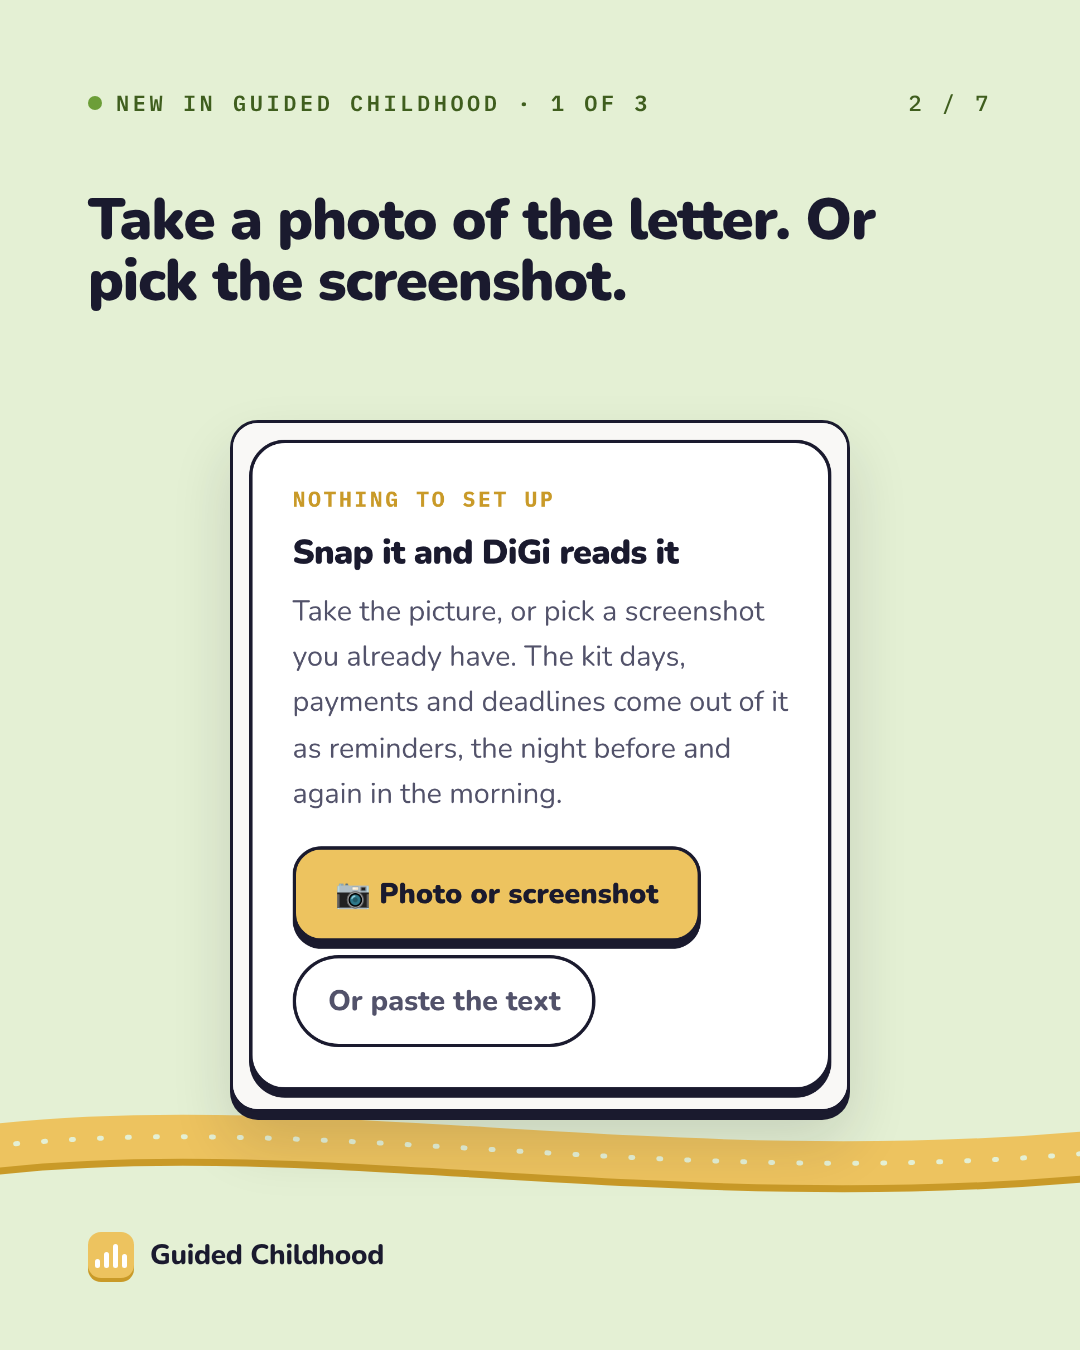
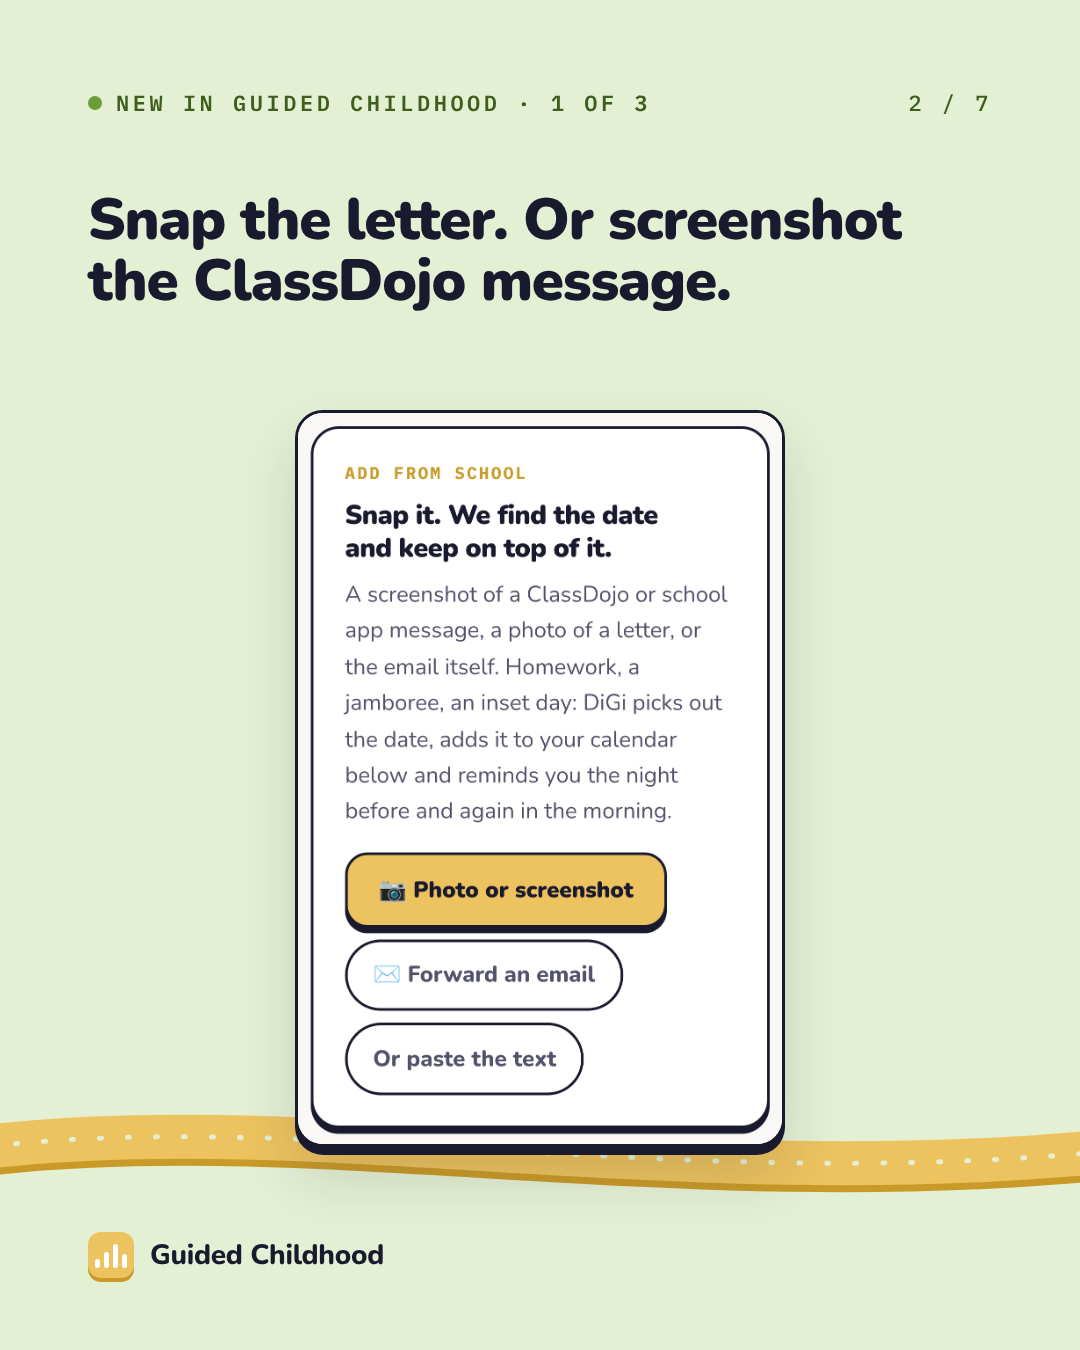
Walkthrough: school letter cards re-captured after PR 1610, plan updated for today's merges
Claude-Session: https://claude.ai/code/session_014MKeZaRwosR7VhbLqQ5dyG

Changed region(s): [[0.2139, 0.28, 0.7944, 0.8711], [0.0611, 0.1244, 0.8556, 0.2489]]

diff --git a/plans/2026-11-17-instagram-walkthrough-plan.md b/plans/2026-11-17-instagram-walkthrough-plan.md
@@ -1,6 +1,6 @@
 # Instagram walkthrough, every service: the review and the new posts
 
-17 November 2026, marketing lane, PR 1611. Justin: "review all things we are
+17 November 2026, marketing lane. PR 1611 merged with only the claim; the work is in the follow up PR. Justin: "review all things we are
 adding to do instagram high quality walkthrough of every service to advertise".
 **Drafts only. Nothing posted or scheduled.**
 
@@ -26,9 +26,9 @@ post. So this pass did not rebuild it. It did three things:
 | Stars and the screen timer | Merged | Run posts 4, 7 |
 | Planet Friends and the sticker book | Merged | Run post 19 |
 | Passport | Merged (1603); stickers and Stage done in 1608, **open** | Run post 18 (needs fixes, below) |
-| Fridge star chart | **Open**, PR 1600 | Run post 17 card 3 re-capture after merge |
-| Our school week sheet and family week pack | **Open**, PR 1607 | 1607 carries its own carousel; post it as is |
-| School calendar: snap, forward, reminders | Snap and Letterbox merged; "add from school first" and the honest failure in PR 1610, **open** | Run post 16; **new post 1** |
+| Fridge star chart | Merged 17 Nov, PR 1600 | Run post 17 card 3: re-capture now |
+| Our school week sheet and family week pack | Merged 17 Nov, PR 1607 | 1607 carries its own carousel; post it as is |
+| School calendar: snap, forward, reminders | Merged 17 Nov, PR 1610 (Add from school first, Forward an email button); cards captured after it | Run post 16; **new post 1** |
 | Watch it together | Merged 17 Nov (1589, 1598, migration 400) | **New post 3** |
 | Lessons | Merged | Run post 18 |
 | Scripts | Merged; page rebuilt as three shelves 17 Nov | Run post 9 (re-capture card 2) |
@@ -59,7 +59,7 @@ pages calling the API with no session, which is expected.
 | 4 | Sun 22 Nov | Says outside play "pays the most"; it now pays the same, with praise (15 Nov) | s4 to "Outside comes first", crop the star count; caption "Outside play leads the list". Needs the Mac render |
 | 10 | Tue 1 Dec | "Four days of everything" | Use the live line: DiGi a few times a day and the starter scripts |
 | 18 | Tue 15 Dec | Card 3 says stamps fill from jobs and check ins; they come from lessons, scripts and the big check. Card 5 shows the old passport | Card 3: "from lessons, the talks you have, and their big check". Re-capture card 5 after 1608 |
-| 9, 17 | 29 Nov, 13 Dec | Scripts page and star chart sheet both redesigned 17 Nov | Re-capture after 1600 merges |
+| 9, 17 | 29 Nov, 13 Dec | Scripts page and star chart sheet both redesigned 17 Nov | Re-capture both (1600 is merged) |
 | 7 | 27 Nov | Timer clips may say "healthy amount"; the app now says "today's guide" | Watch both clips |
 | 5 | 24 Nov | Card 5 shows "with safe settings" | Crop that line, or Justin's yes |
 
@@ -92,9 +92,9 @@ The family account rhythm is full in the evenings, so the new run takes the
 free **Sunday mornings at 10:00** on the family account:
 
 1. **Tonight, 19:30**: run post 1, the re-laid film.
-2. **Saturday 21 Nov**: the family week pack carousel from PR 1607 as Free Saturday, once 1607 merges.
+2. **Saturday 21 Nov**: the family week pack carousel from PR 1607 (merged) as Free Saturday.
 3. **Sunday 22 Nov, 10:00**: new 2, the twelve. No dependency; everything is live.
-4. **Sunday 29 Nov, 10:00**: new 1, the school letter. Only after PR 1610 merges.
+4. **Sunday 29 Nov, 10:00**: new 1, the school letter (PR 1610 is merged, so nothing waits).
 5. **Sunday 6 Dec, 10:00**: new 3, watch it together.
 
 This adds one ask a week for three weeks on top of the run's three. Links to

diff --git a/content/campaigns/new-in-the-app/01-the-school-letter.md b/content/campaigns/new-in-the-app/01-the-school-letter.md
@@ -7,7 +7,7 @@ Lead: Bloop (routines). Parent problem: service map 7, the mental load of school
 ## The cards
 
 1. The letter said Wednesday. I found it on Thursday.
-2. Take a photo of the letter. Or pick the screenshot. (the snap card)
+2. Snap the letter. Or screenshot the ClassDojo message. (the Add from school card)
 3. Or forward the school emails to your own address. (the Letterbox card)
 4. It lands on the right day. Weekly ones come back. (the week grid)
 5. And on their week, in their own app. (the child's week)
@@ -41,7 +41,7 @@ It starts with a free stage check. Three questions, no sign up: guidedchildhood.
 ## Alt text
 
 1. Headline: The letter said Wednesday. I found it on Thursday. Bloop, a small green character, stands on a gold path.
-2. The app's card: Snap it and DiGi reads it, with a Photo or screenshot button and Or paste the text.
+2. The app's card: Add from school. Snap it. We find the date and keep on top of it. Buttons: Photo or screenshot, Forward an email, Or paste the text.
 3. The app's card: Let DiGi catch the school emails, a private address, with three ticks about privacy and a Get my address button.
 4. The app's week, Monday 16 and Tuesday 17 November, with PE kit at 08:30 marked weekly.
 5. The child's week in their app: a row of days and Today, PE kit, 08:30, every Tuesday.
@@ -54,7 +54,7 @@ It starts with a free stage check. Three questions, no sign up: guidedchildhood.
 
 ## Proof paths
 
-- Snap or screenshot, read by DiGi: `components/school/SchoolCatch.tsx`, `app/api/school/catch/route.ts`, `lib/school/extract.ts` (dev fixture `/dev/school-catch`). PR 1610 (open) moves "add from school" to the top of the page and gives an honest message when a screenshot cannot be read. Post this after 1610 merges.
+- Snap or screenshot, read by DiGi: `components/school/SchoolCatch.tsx`, `app/api/school/catch/route.ts`, `lib/school/extract.ts` (dev fixture `/dev/school-catch`). PR 1610 (merged 17 November) put "Add from school" first, added the Forward an email button and an honest message when a screenshot cannot be read. Card 2 was captured after it merged.
 - Forwarded emails, private address, "we keep the reminders, never the emails": the Letterbox card, `/dev/school-letterbox`, live since 17 September.
 - Night before and morning reminders: the snap card's own words; the school window push (decision of 3 November).
 - Weekly items come back: `components/school/SchoolWeek.tsx` ("Anything marked weekly comes back on the same day next week").

diff --git a/plans/decisions.md b/plans/decisions.md
@@ -329,4 +329,4 @@ scheduled without his time. GDC 057 and 059 approved with cards (PR 1591).
 
 - Justin asked for a high quality walkthrough of every service. The 20 post run (PR 1475) already covers them, so this pass checked it against the week's changes and built posts only for what is new: the school letter catch, the stage check's twelve, watch it together ("New in Guided Childhood, 1 of 3").
 - Post 1, due tonight, showed the retired worry question. The current screen was laid over those 4.8 seconds of the finished film (the source captures are on the Mac); the old render is kept as `-v1`.
-- Two stage check tiles no longer promise "safe". Posts 4, 10 and 18 have stale lines, listed with fixes. PR 1611, `plans/2026-11-17-instagram-walkthrough-plan.md`.
+- Two stage check tiles no longer promise "safe". Posts 4, 10 and 18 have stale lines, listed with fixes. PR 1611 merged with only the claim; the work is in its follow up. `plans/2026-11-17-instagram-walkthrough-plan.md`.
